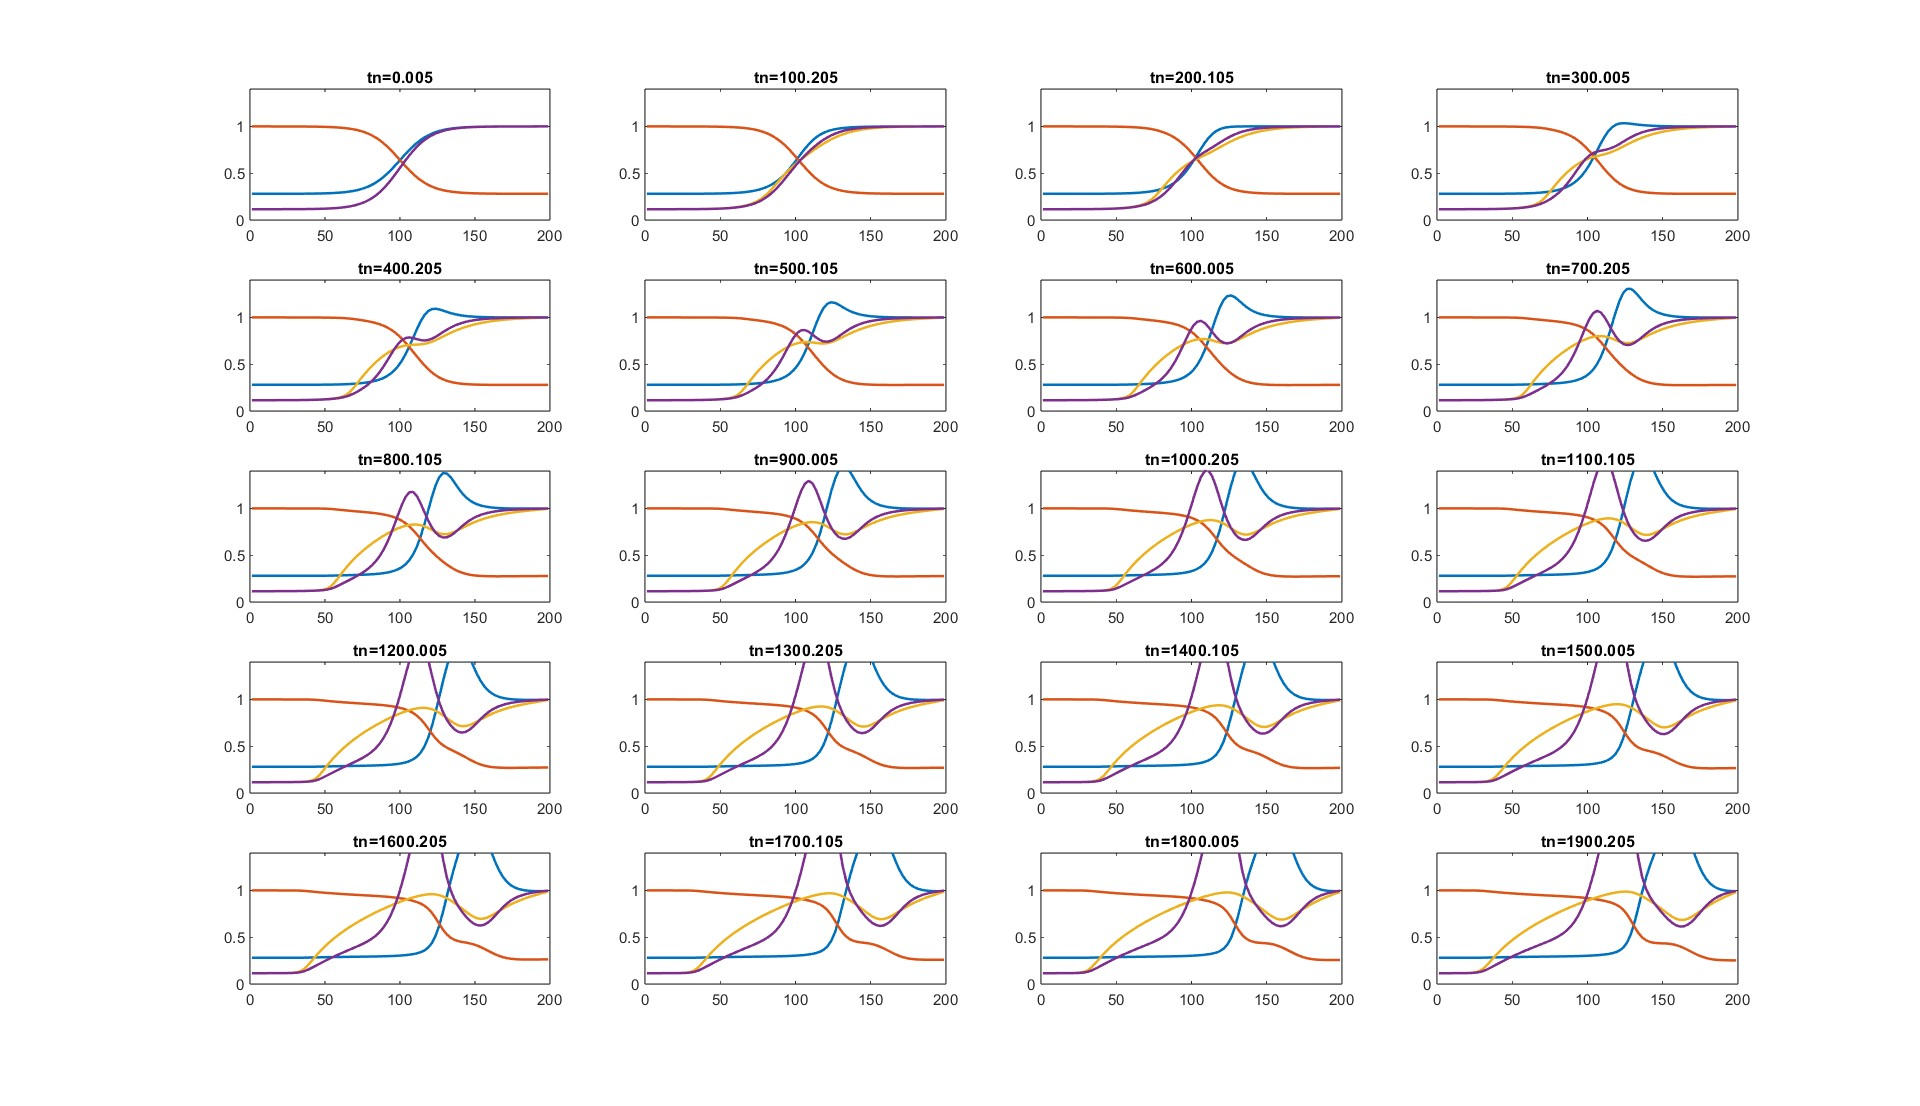
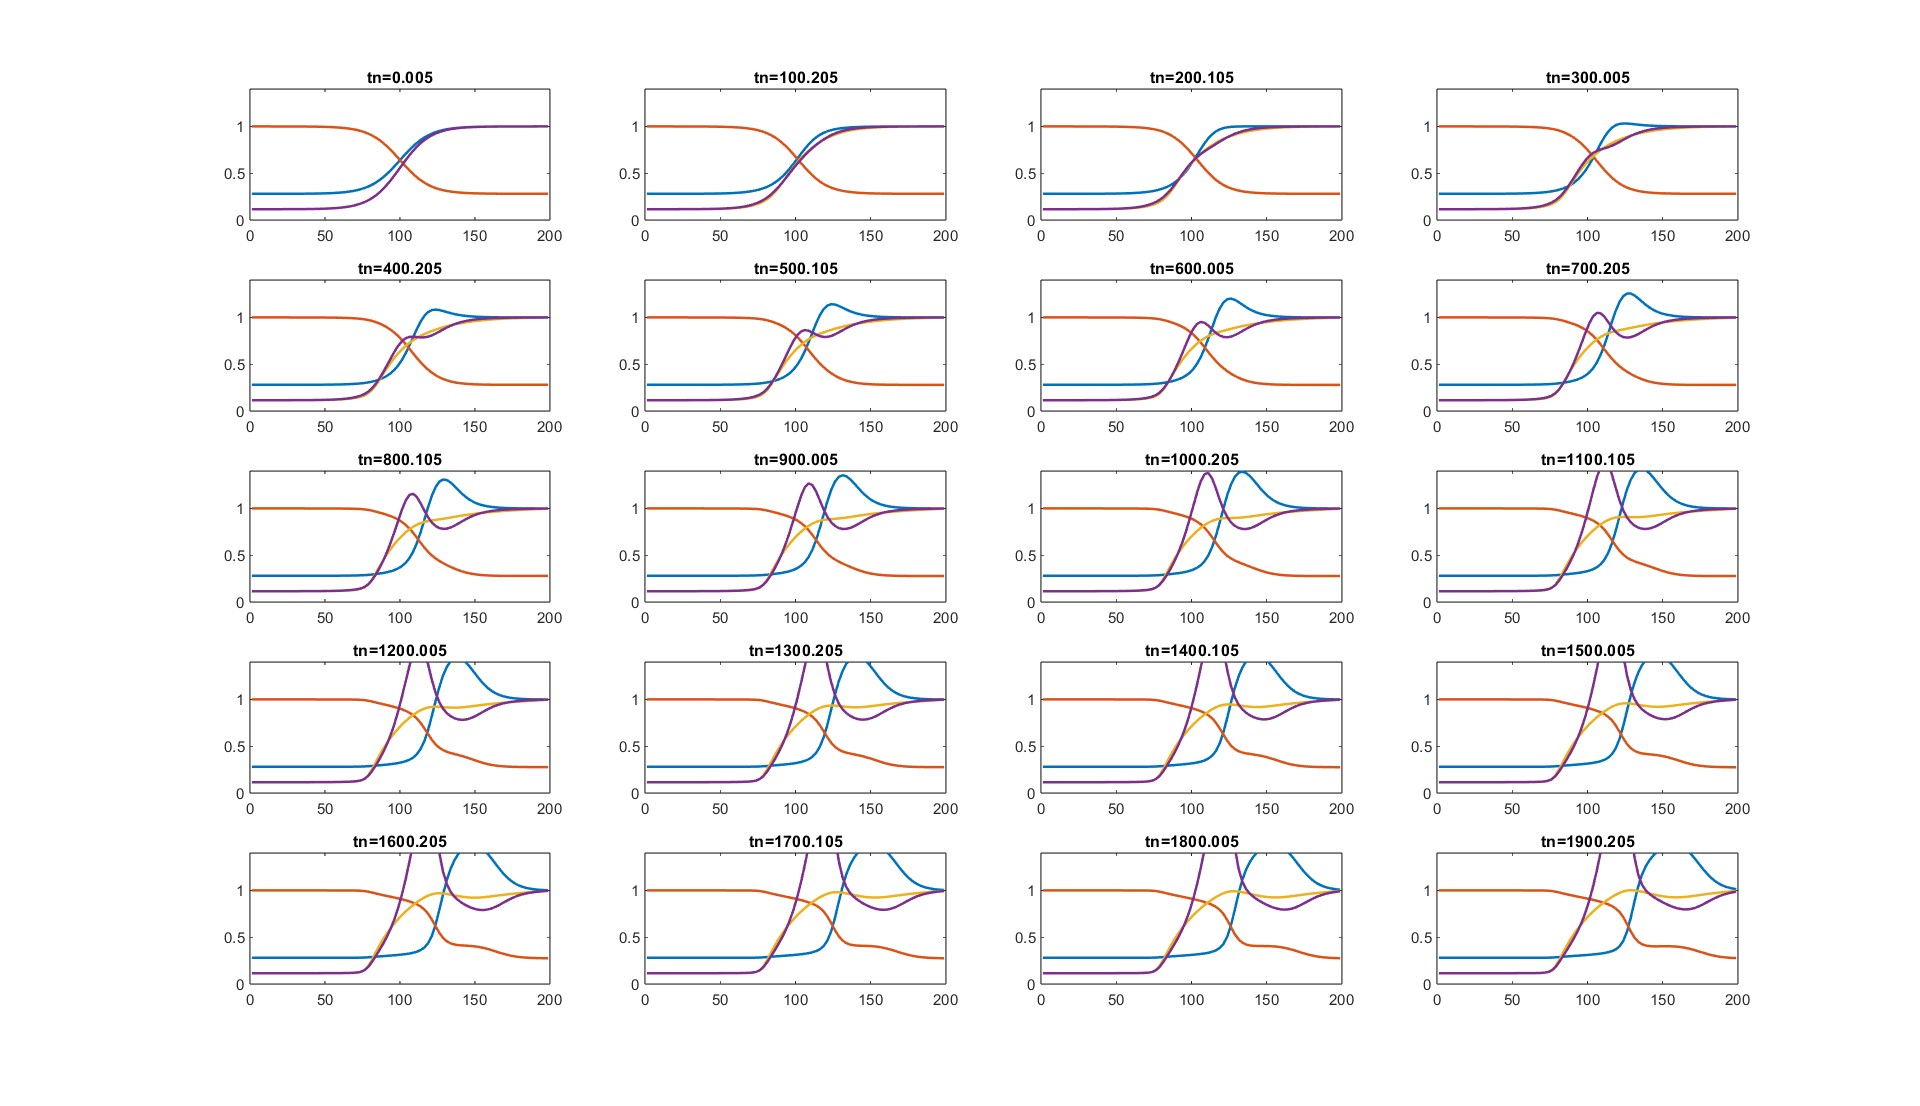
updates

diff --git a/Quasi Newton Solver/newton_solver_FP.m b/Quasi Newton Solver/newton_solver_FP.m
@@ -45,7 +45,7 @@ function [n, nu, nU, T_e] = newton_solver_FP(f, n0, u_para0, U0, T_ae0, dt, dx, 
     n = n0 - (dt/dx)*(nu_hat_pos - nu_hat_neg); % now find n_i+1, n_i-1
     n_pos = [n(2:end); n0_max]; n_neg = [n0_min; n(1:end-1)];
 
-    % init y_vec, R_norm    
+    % ---- init y_vec, R_norm ----  
     y = [n0.*u_para0; n0.*U0; T_ae0];
 
     nu = y(1:Nx);
@@ -59,34 +59,12 @@ function [n, nu, nU, T_e] = newton_solver_FP(f, n0, u_para0, U0, T_ae0, dt, dx, 
 
     R1 = nu - (n0.*u_para0) + (dt/dx).*(S_hat_pos - S_hat_neg) - ((dt*qa)/(2*dx*qe*ma)).*((n_pos.*Te_pos) - (n_neg.*Te_neg));
     R2 = nU - (n0.*U0) + (dt/dx).*(Q_hat_pos - Q_hat_neg) - (((dt*qa*nu)./(2*dx*qe*n)).*((n_pos.*Te_pos) - (n_neg.*Te_neg))) - (((dt.*3.*sqrt(2*me))./((ma.^2).*(T_e.^(3/2)))) .* (((n.^2).*T_e) - ((ma/3).*((2.*n.*nU) - (nu.^2)))));
-
-    %%% ANOTHER DISCREPANCY HERE AT END!!! 
     R3 = (n0.*T_e) - (n0.*T_ae0) + ((5*dt)/(3*dx)).*(u_para0_half_nodes(2:end).*nTe_hat_pos - u_para0_half_nodes(1:end-1).*nTe_hat_neg) - (((dt*nu)./(3*dx.*n)).*(nTe_pos - nTe_neg)) - (((2*dt)/(3*dx.^2)) .* ((kappa_pos.*(Te_pos - T_e)) - (kappa_neg.*(T_e - Te_neg)))) - (((dt.*2.*sqrt(2*me))./(ma.*(T_e.^(3/2)))) .* (((ma/3).*((2*n.*nU) - (nu.^2))) - ((n.^2).*T_e)));
-    % R3 = (n.*T_e) - (n0.*T_ae0) + ((5*dt)/(3*dx)).*(nTe_hat_pos - nTe_hat_neg) - (((dt*nu)./(3*dx.*n)).*(nTe_pos - nTe_neg)) - (((2*dt)/(3*dx.^2)) .* ((kappa_pos.*(Te_pos - T_e)) - (kappa_neg.*(T_e - Te_neg)))) - (((dt.*2.*sqrt(2*me))./(ma.*(T_e.^(3/2)))) .* (-(n.^2).*T_e + (ma/3).*((2*ma*n.*nU./3) - (nu.^2))));
     R = [R1; R2; R3];
     
     tol = min(5e-12, max(R)*5e-10); % ensure we don't get worse!
 
     while (max(R) > tol)
-        % update y_vec stuff
-        nu = y(1:Nx);
-        nU = y(Nx+1:2*Nx);
-        T_e = y(2*Nx+1:end);
-        Te_pos = [T_e(2:end); T_ae_max]; Te_neg = [T_ae_min; T_e(1:end-1)];
-        nTe_pos = n_pos.*Te_pos; nTe_neg = n_neg.*Te_neg;
-
-        kappa_pos = (3.2/(2*sqrt(2*me)))*((Te_pos.^(5/2) + T_e.^(5/2)));
-        kappa_neg = (3.2/(2*sqrt(2*me)))*((T_e.^(5/2) + Te_neg.^(5/2)));
-
-        %%% ASK ABOUT (unTe)_HAT vs u(nTe)_HAT!!!
-        R1 = nu - (n0.*u_para0) + (dt/dx).*(S_hat_pos - S_hat_neg) - ((dt*qa)/(2*dx*qe*ma)).*((n_pos.*Te_pos) - (n_neg.*Te_neg));
-        R2 = nU - (n0.*U0) + (dt/dx).*(Q_hat_pos - Q_hat_neg) - (((dt*qa*nu)./(2*dx*qe*n)).*((n_pos.*Te_pos) - (n_neg.*Te_neg))) - (((dt.*3.*sqrt(2*me))./((ma.^2).*(T_e.^(3/2)))) .* (((n.^2).*T_e) - ((ma/3).*((2.*n.*nU) - (nu.^2)))));
-
-        %%% ANOTHER DISCREPANCY HERE AT END!!! 
-        R3 = (n.*T_e) - (n0.*T_ae0) + ((5*dt)/(3*dx)).*((u_para0_half_nodes(2:end).*nTe_hat_pos) - (u_para0_half_nodes(1:end-1).*nTe_hat_neg)) - (((dt*nu)./(3*dx.*n)).*(nTe_pos - nTe_neg)) - (((2*dt)/(3*dx.^2)) .* ((kappa_pos.*(Te_pos - T_e)) - (kappa_neg.*(T_e - Te_neg)))) - (((dt.*2.*sqrt(2*me))./(ma.*(T_e.^(3/2)))) .* (((ma/3).*((2*n.*nU) - (nu.^2))) - ((n.^2).*T_e)));
-        % R3 = (n.*T_e) - (n0.*T_ae0) + ((5*dt)/(3*dx)).*(nTe_hat_pos - nTe_hat_neg) - (((dt*nu)./(3*dx.*n)).*(nTe_pos - nTe_neg)) - (((2*dt)/(3*dx.^2)) .* ((kappa_pos.*(Te_pos - T_e)) - (kappa_neg.*(T_e - Te_neg)))) - (((dt.*2.*sqrt(2*me))./(ma.*(T_e.^(3/2)))) .* (-(n.^2).*T_e + (ma/3).*((2*ma*n.*nU./3) - (nu.^2))));
-        R = [R1; R2; R3];
-
         % define partial derivatives of residual
         nu_nu = spdiags(ones(Nx), 0, Nx, Nx);
         nu_nU = spdiags(zeros(Nx),0, Nx, Nx);
@@ -95,7 +73,7 @@ function [n, nu, nU, T_e] = newton_solver_FP(f, n0, u_para0, U0, T_ae0, dt, dx, 
         nU_nu = diag( ((-dt*qa)./(2*dx.*qe.*n)).*((n_pos.*Te_pos) - (n_neg.*Te_neg)) );
         nU_nU = spdiags(ones(Nx), 0, Nx, Nx);
         nU_Te_mid = (-(3*dt*sqrt(2*me))./(ma.^2)).*( (-(n.^2)./(2.*T_e.^(3/2))) + (ma/2)*((2*n.*y(Nx+1:2*Nx)) - (y(1:Nx).^2))./(T_e.^(5/2)) );
-        nU_Te = gallery('tridiag', (dt.*qa.*y(2:Nx).*(n(1:end-1)./n(2:end)))./(2*dx*qe), nU_Te_mid, -(dt.*qa.*y(1:Nx-1, 1).*(n(2:end)./n(1:end-1)))/(2*dx*qe) );
+        nU_Te = gallery('tridiag', (dt.*qa.*nu(2:end).*(n(1:end-1)./n(2:end)))./(2*dx*qe), nU_Te_mid, -(dt.*qa.*nu(1:end-1).*(n(2:end)./n(1:end-1)))/(2*dx*qe) );
     
         Te_nu = diag(-(dt.*((n_pos.*Te_pos) - (n_neg.*Te_neg)))./(3*dx*n));
         Te_nU = spdiags(zeros(Nx), 0, Nx, Nx);
@@ -110,12 +88,27 @@ function [n, nu, nU, T_e] = newton_solver_FP(f, n0, u_para0, U0, T_ae0, dt, dx, 
         
         dy = -P\R; % solve for delta y at time l+1
         y = y + dy;
+
+        % update y_vec stuff
+        nu = y(1:Nx);
+        nU = y(Nx+1:2*Nx);
+        T_e = y(2*Nx+1:end);
+        Te_pos = [T_e(2:end); T_ae_max]; Te_neg = [T_ae_min; T_e(1:end-1)];
+        nTe_pos = n_pos.*Te_pos; nTe_neg = n_neg.*Te_neg;
+
+        kappa_pos = (3.2/(2*sqrt(2*me)))*((Te_pos.^(5/2) + T_e.^(5/2)));
+        kappa_neg = (3.2/(2*sqrt(2*me)))*((T_e.^(5/2) + Te_neg.^(5/2)));
+
+        R1 = nu - (n0.*u_para0) + (dt/dx).*(S_hat_pos - S_hat_neg) - ((dt*qa)/(2*dx*qe*ma)).*((n_pos.*Te_pos) - (n_neg.*Te_neg));
+        R2 = nU - (n0.*U0) + (dt/dx).*(Q_hat_pos - Q_hat_neg) - (((dt*qa*nu)./(2*dx*qe*n)).*((n_pos.*Te_pos) - (n_neg.*Te_neg))) - (((dt.*3.*sqrt(2*me))./((ma.^2).*(T_e.^(3/2)))) .* (((n.^2).*T_e) - ((ma/3).*((2.*n.*nU) - (nu.^2)))));
+        R3 = (n.*T_e) - (n0.*T_ae0) + ((5*dt)/(3*dx)).*((u_para0_half_nodes(2:end).*nTe_hat_pos) - (u_para0_half_nodes(1:end-1).*nTe_hat_neg)) - (((dt*nu)./(3*dx.*n)).*(nTe_pos - nTe_neg)) - (((2*dt)/(3*dx.^2)) .* ((kappa_pos.*(Te_pos - T_e)) - (kappa_neg.*(T_e - Te_neg)))) - (((dt.*2.*sqrt(2*me))./(ma.*(T_e.^(3/2)))) .* (((ma/3).*((2*n.*nU) - (nu.^2))) - ((n.^2).*T_e)));
+        R = [R1; R2; R3];
     end
 
+    % parameters to return
     nu = (y(1:Nx));
     nU = y(Nx+1:2*Nx);
     T_e = y(2*Nx+1:end);
-    
 end
 
 function [f_hat] = get_f_hat(f, v_para, v_perp, R_const, x_min, x_max)

diff --git a/Quasi Newton Solver/fluid_solver.m b/Quasi Newton Solver/fluid_solver.m
@@ -90,3 +90,18 @@ for tn = 2:numel(tvals)
     end
 end
 legend('n', 'u/u0', 'T_e', 'T_\alpha')
+
+%%
+
+for i = 1:21
+    idx = i*500;
+    figure; clf;
+    plot(xvals, nvals(idx, :), "LineWidth",1.5); hold on;
+    plot(xvals, uvals(idx, :)./uvals(idx, 1), "LineWidth",1.5);
+    plot(xvals, Te_vals(idx, :), "LineWidth",1.5);
+    plot(xvals, Ta_vals(idx, :), "LineWidth",1.5);
+    title(['tn=', num2str(tvals(idx))]);
+    ylim([0, 1.8]);
+    legend('n', 'u/u0', 'T_e', 'T_\alpha')
+end
+

diff --git a/Quasi Newton Solver/untitled2.m b/Quasi Newton Solver/untitled2.m
@@ -1,0 +1,10 @@
+b = [0, 0, 0, 1];
+a = [1, 12, 40, 0];
+
+H = tf(b, a);
+tvals = linspace(0, 10, 100);
+
+u = 1 - (sqrt(10)/4)*exp(-6*tvals).*sin(2*tvals + atan(1/3));
+
+figure; 
+step(H)
